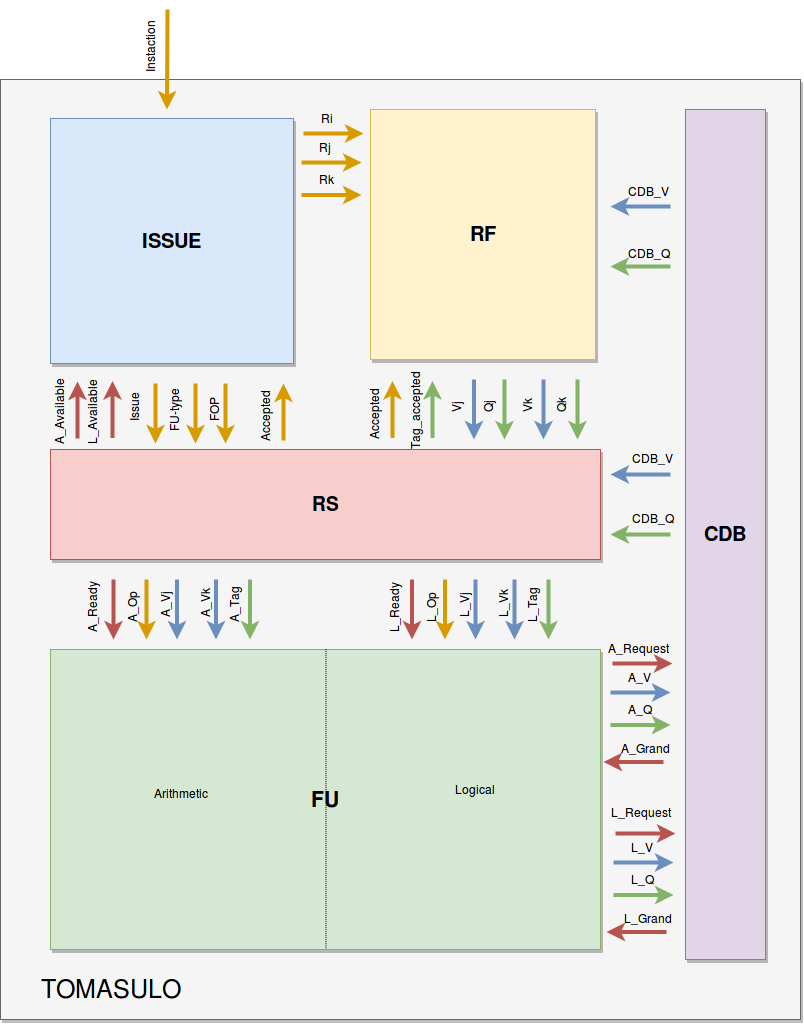
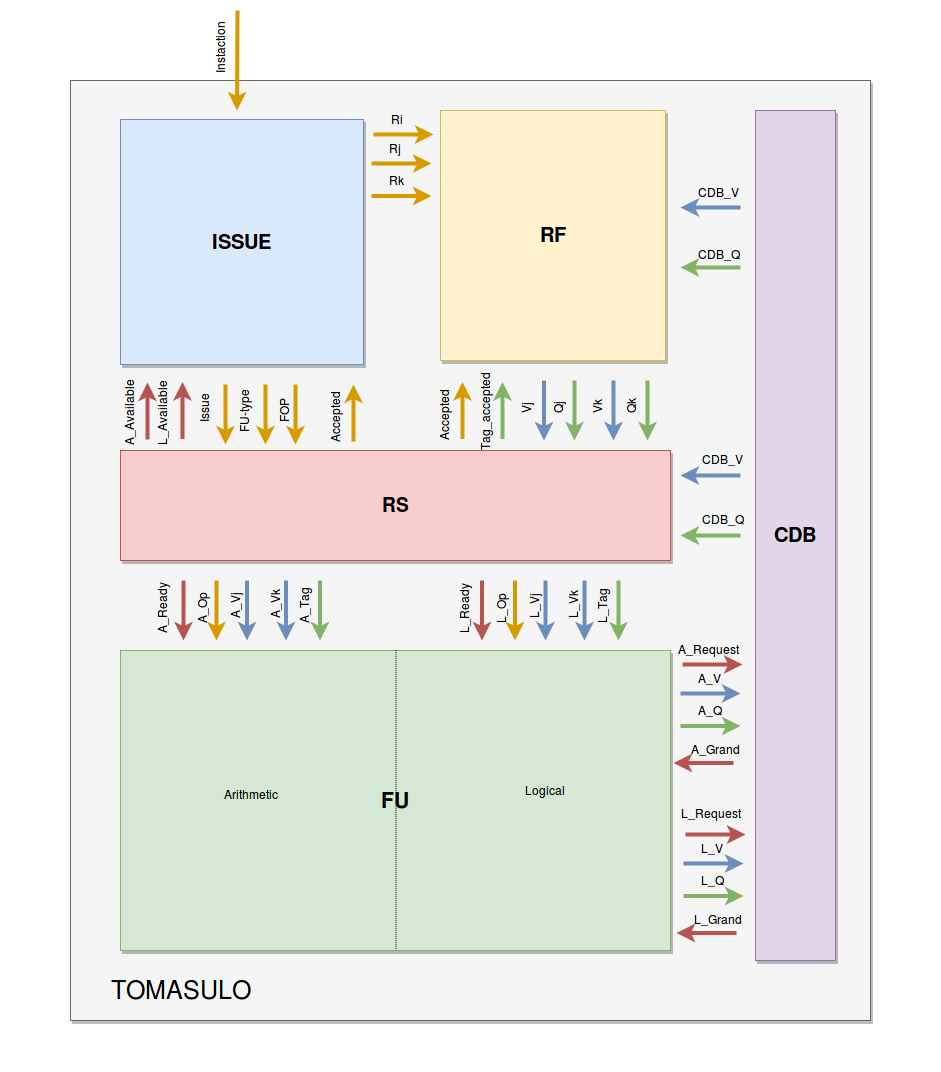
CDB and RF diagrams added

diff --git a/TODO.md b/TODO.md
@@ -4,7 +4,6 @@
 		diagram
 
 	* RF : 
-		diagram
 
 	* RS :
 
@@ -13,15 +12,14 @@
 		1) Maybe add from FU ready to accept signal
 
 	* CDB :
-		diagram
 
 	*Else:
-		tomasulo's full diagram
 
 # Completed:
 	* Issue :
 
 	* RF : 
+		block diagram v1
 
 	* RS :
 		block diagram v1
@@ -30,5 +28,7 @@
 		block diagram v1
 
 	* CDB :
+		block diagram v1
 
 	*Else:
+		Top module block diagram v1
